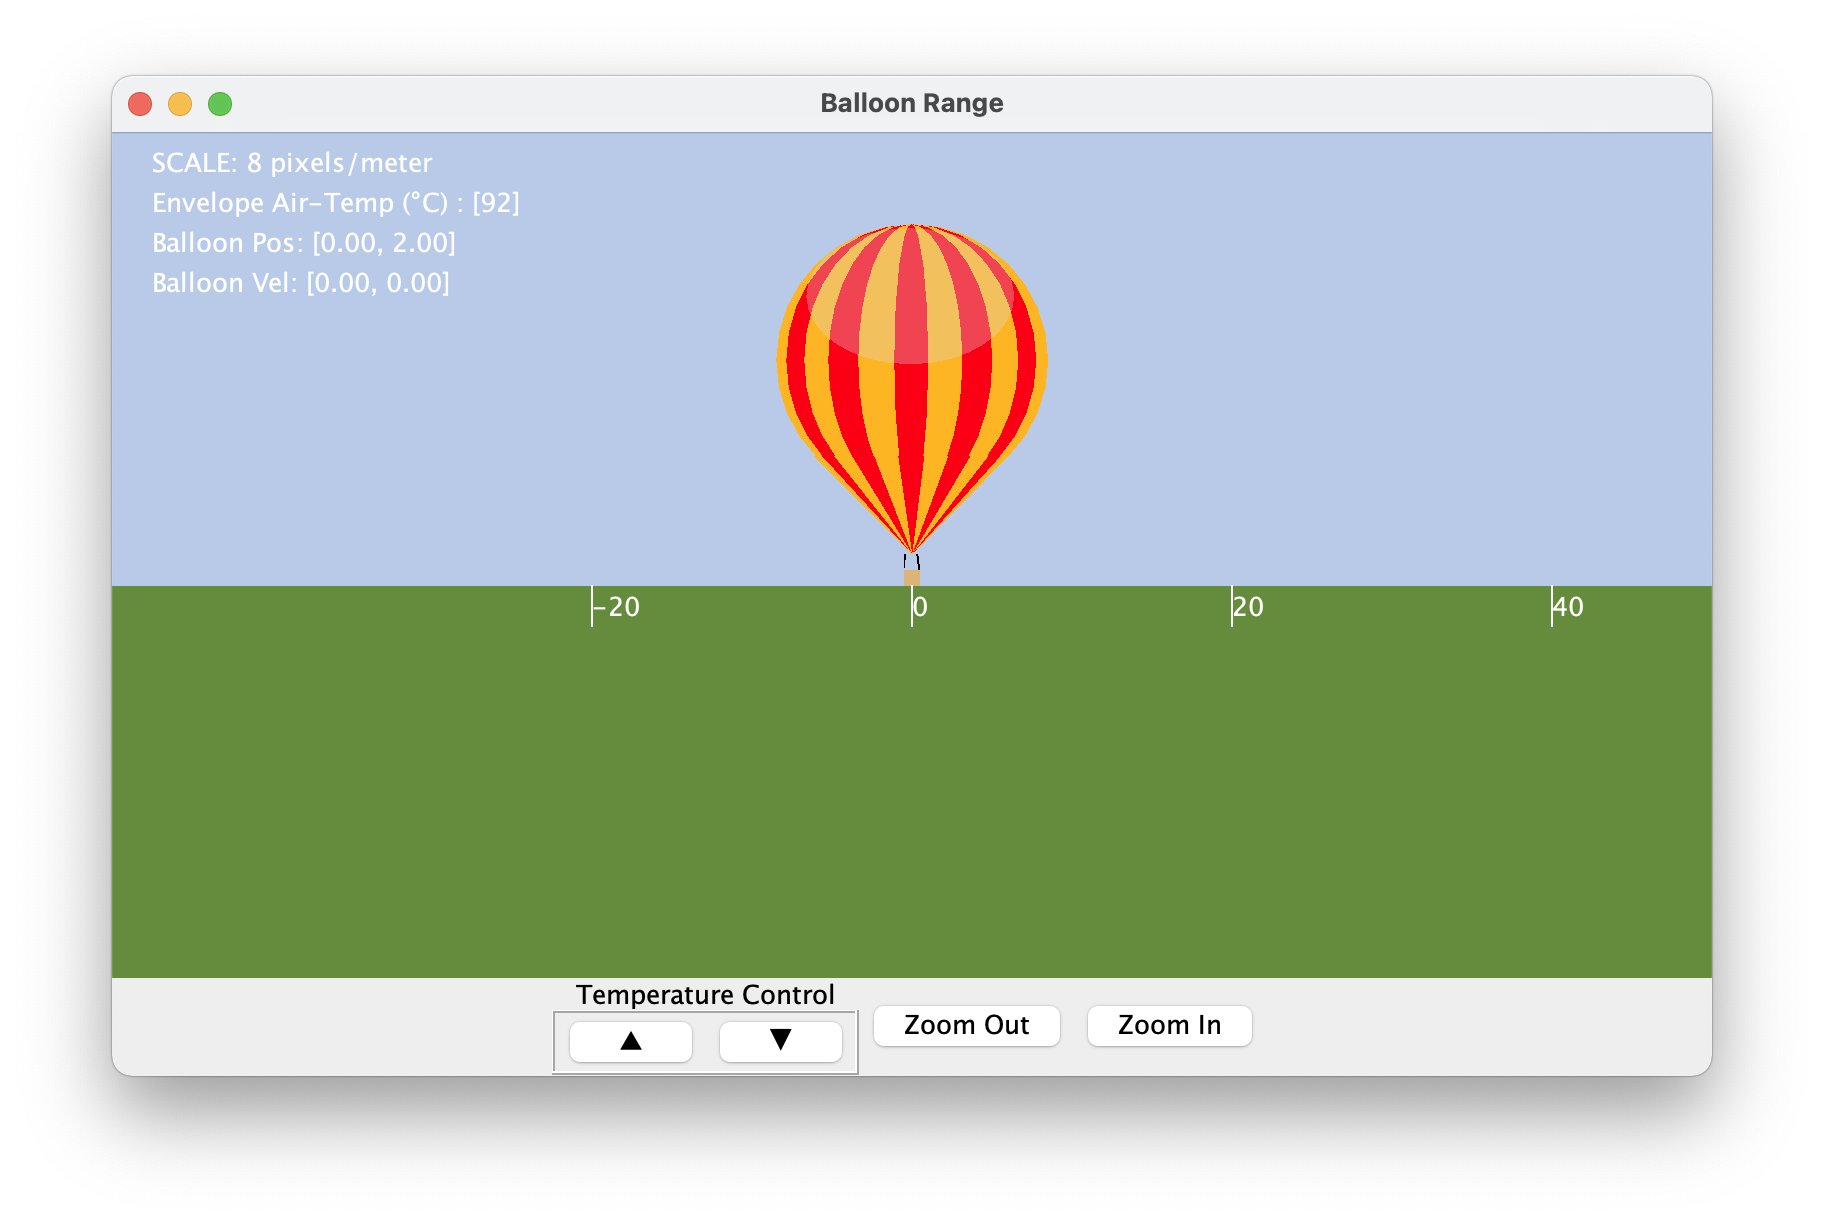
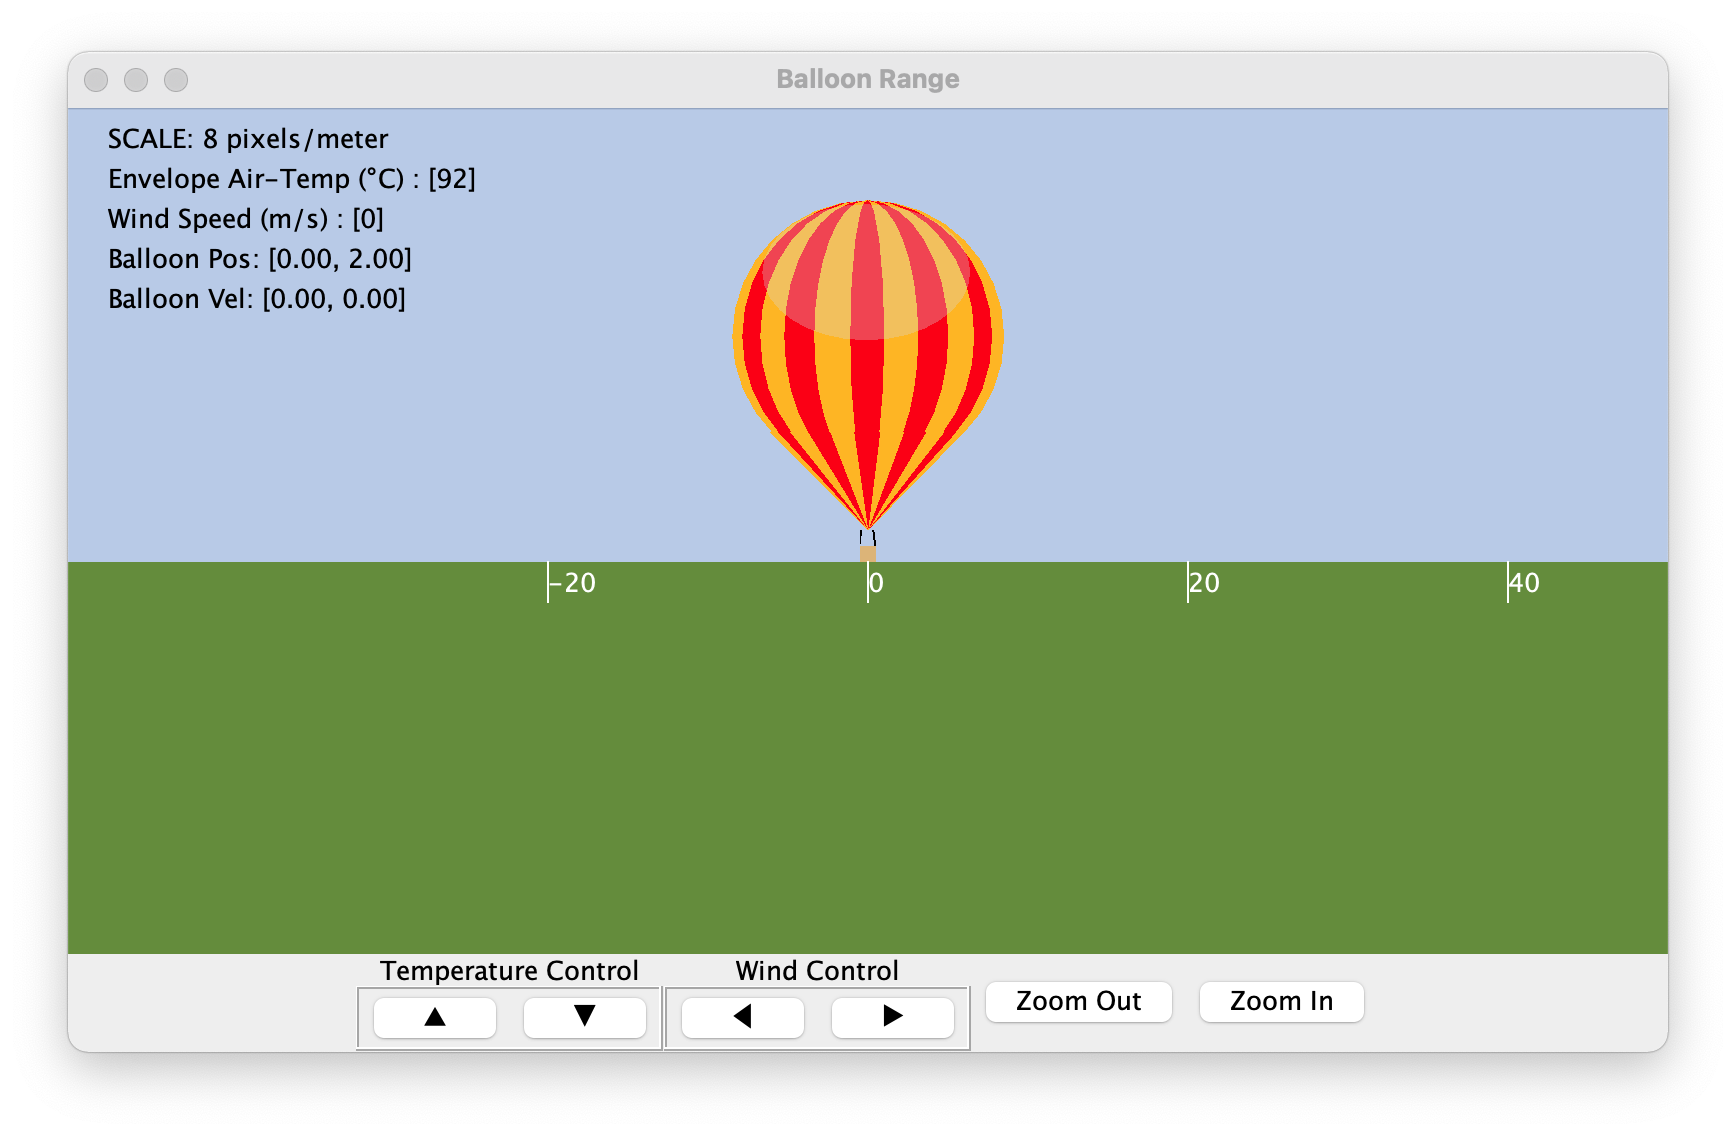
Update SIM_balloon with Wind. #1213

Changed region(s): [[0.0311, 0.0616, 0.9643, 0.9551]]

diff --git a/trick_sims/SIM_balloon/models/graphics/src/BalloonDisplay.java b/trick_sims/SIM_balloon/models/graphics/src/BalloonDisplay.java
@@ -67,6 +67,7 @@ class RangeView extends JPanel {
     private double[] balloonPos;
     private double[] balloonVel;
     private int      envelopeAirTemp; /* degrees C */
+    private int      windSpeed;
     private double   envelope_radius;
     private double   envelope_theta;
 
@@ -78,6 +79,7 @@ class RangeView extends JPanel {
 
     // Controls
     private int deltaTemp ;
+    private int deltaWind ;
 
     /**
      * Class constructor.
@@ -87,6 +89,7 @@ class RangeView extends JPanel {
         setScale(mapScale);
 
         deltaTemp = 0;
+        deltaWind = 0;
 
         skyColor    = new Color(184,202,231);
         groundColor = new Color(100,140, 60);
@@ -105,6 +108,7 @@ class RangeView extends JPanel {
         envelope_theta = Math.toRadians(45.0);
 
         envelopeAirTemp = 0;
+        windSpeed = 0;
 
         cone = new ScenePoly();
         cone.color = envelope_color_1;
@@ -152,6 +156,11 @@ class RangeView extends JPanel {
     public void resetDeltaTemp() { deltaTemp =    0; }
     public int  getDeltaTemp()   { return deltaTemp; }
 
+    public void incWind() { deltaWind =    1; }
+    public void decWind() { deltaWind =   -1; }
+    public void resetDeltaWind() { deltaWind =    0; }
+    public int  getDeltaWind()   { return deltaWind; }
+
     public void setballoonPos(double x, double y) {
         balloonPos[0] = x;
         balloonPos[1] = y;
@@ -162,6 +171,9 @@ class RangeView extends JPanel {
     }
     public void setAirTemp(int temperature) {
         envelopeAirTemp = temperature;
+    }
+    public void setWindSpeed(int speed) {
+        windSpeed = speed;
     }
 
     public void setScale (int mapScale) {
@@ -300,10 +312,12 @@ class RangeView extends JPanel {
         // ===============================================================================
         // Draw Information
         // ===============================================================================
+        g2d.setPaint(Color.BLACK);
         g2d.drawString ( String.format("SCALE: %d pixels/meter",scale), 20,20);
         g2d.drawString ( String.format("Envelope Air-Temp (°C) : [%d]", envelopeAirTemp), 20,40);
-        g2d.drawString ( String.format("Balloon Pos: [%.2f, %.2f]", balloonPos[0], balloonPos[1]), 20,60);
-        g2d.drawString ( String.format("Balloon Vel: [%.2f, %.2f]", balloonVel[0], balloonVel[1]), 20,80);
+        g2d.drawString ( String.format("Wind Speed (m/s) : [%d]", windSpeed), 20,60);
+        g2d.drawString ( String.format("Balloon Pos: [%.2f, %.2f]", balloonPos[0], balloonPos[1]), 20,80);
+        g2d.drawString ( String.format("Balloon Vel: [%.2f, %.2f]", balloonVel[0], balloonVel[1]), 20,100);
 
     }
 
@@ -360,12 +374,55 @@ class TemperatureCtrlPanel extends JPanel implements ActionListener {
     }
 }
 
+class WindCtrlPanel extends JPanel implements ActionListener {
+    private RangeView rangeView;
+    private JButton increaseWindButton, decreaseWindButton;
+
+    public WindCtrlPanel(RangeView view) {
+        rangeView = view;
+        setLayout(new BoxLayout(this, BoxLayout.X_AXIS));
+        setBorder( BorderFactory.createEtchedBorder(EtchedBorder.RAISED));
+
+        increaseWindButton = new JButton("\u25b6");
+        increaseWindButton.addActionListener(this);
+        increaseWindButton.setActionCommand("increaseWind");
+        increaseWindButton.setToolTipText("Increase Wind");
+
+        decreaseWindButton = new JButton("\u25c0");
+        decreaseWindButton.addActionListener(this);
+        decreaseWindButton.setActionCommand("decreaseWind");
+        decreaseWindButton.setToolTipText("Decrease Wind");
+
+        add(decreaseWindButton);
+        add(increaseWindButton);
+
+
+    }
+
+    public void actionPerformed(ActionEvent e) {
+        String s = e.getActionCommand();
+        switch (s) {
+            case "increaseWind":
+                rangeView.incWind();
+                break;
+            case "decreaseWind":
+                rangeView.decWind();
+                break;
+            default:
+                System.out.println("Unknown Action Command:" + s);
+                break;
+        }
+    }
+}
+
+
 class ControlPanel extends JPanel implements ActionListener {
 
     private RangeView rangeView;
     private JButton zoomOutButton, zoomInButton;
     private JButton shutDownButton;
     private TemperatureCtrlPanel temperatureCtrlPanel;
+    private WindCtrlPanel windCtrlPanel;
 
     public ControlPanel(RangeView view) {
 
@@ -380,6 +437,15 @@ class ControlPanel extends JPanel implements ActionListener {
         temperatureCtrlPanel = new TemperatureCtrlPanel(rangeView);
         labeledTemperatureCtrlPanel.add( temperatureCtrlPanel );
         add(labeledTemperatureCtrlPanel);
+
+        JPanel labeledWindCtrlPanel = new JPanel();
+        labeledWindCtrlPanel.setLayout(new BoxLayout(labeledWindCtrlPanel, BoxLayout.Y_AXIS));
+        JLabel windControlLabel = new JLabel("Wind Control");
+        windControlLabel.setAlignmentX(Component.CENTER_ALIGNMENT);
+        labeledWindCtrlPanel.add(windControlLabel);
+        windCtrlPanel = new WindCtrlPanel(rangeView);
+        labeledWindCtrlPanel.add( windCtrlPanel );
+        add(labeledWindCtrlPanel);
 
         zoomOutButton = new JButton("Zoom Out");
         zoomOutButton.addActionListener(this);
@@ -499,9 +565,11 @@ public class BalloonDisplay extends JFrame {
         double  velx = 0.0;
         double  vely = 0.0;
         int     airtemp = 0;
+        int     windspeed = 0;
 
         // Outbound command variables
         int temperature_change_command;
+        int wind_change_command;
 
         int simMode = 0;
         boolean standalone = false;
@@ -552,6 +620,7 @@ public class BalloonDisplay extends JFrame {
                             "trick.var_add(\"dyn.balloon.vel[0]\")\n" +
                             "trick.var_add(\"dyn.balloon.vel[1]\")\n" +
                             "trick.var_add(\"dyn.balloon.envelope_air_temperature\")\n" +
+                            "trick.var_add(\"dyn.balloon.wind_speed\")\n" +
                             "trick.var_add(\"trick_sys.sched.mode\")\n" +
         //  2) We want the responses in ASCII:
                             "trick.var_ascii() \n" +
@@ -574,7 +643,8 @@ public class BalloonDisplay extends JFrame {
                 velx    = Double.parseDouble( field[3]);
                 vely    = Double.parseDouble( field[4]);
                 airtemp = Integer.parseInt( field[5]);
-                simMode = Integer.parseInt( field[6]);
+                windspeed = Integer.parseInt( field[6]);
+                simMode = Integer.parseInt( field[7]);
             } catch (IOException | NullPointerException e ) {
                 go = false;
             }
@@ -583,10 +653,19 @@ public class BalloonDisplay extends JFrame {
             rangeView.setballoonPos(posx, posy);
             rangeView.setBalloonVel(velx, vely);
             rangeView.setAirTemp(airtemp);
+            rangeView.setWindSpeed(windspeed);
 
             temperature_change_command = rangeView.getDeltaTemp();
-            balloonDisplay.out.writeBytes( String.format("dyn.balloon.temperature_change_command = %d ;\n", temperature_change_command ));
-            rangeView.resetDeltaTemp();
+            if (temperature_change_command != 0) {
+                balloonDisplay.out.writeBytes( String.format("dyn.balloon.temperature_change_command = %d ;\n", temperature_change_command ));
+                rangeView.resetDeltaTemp();
+            }
+
+            wind_change_command = rangeView.getDeltaWind();
+            if (wind_change_command != 0) {
+                balloonDisplay.out.writeBytes( String.format("dyn.balloon.wind_change_command = %d ;\n", wind_change_command ));
+                rangeView.resetDeltaWind();
+            }
 
             balloonDisplay.out.flush();
 

diff --git a/trick_sims/SIM_balloon/models/balloon/src/Balloon.cpp b/trick_sims/SIM_balloon/models/balloon/src/Balloon.cpp
@@ -27,7 +27,8 @@ int Balloon::default_data() {
     envelope_radius          = 8.5;
     envelope_theta           = 45 * (M_PI/180.0);
 
-    Cd = 0.5;
+    Cd[0] = 0.5;
+    Cd[1] = 0.5;
 
     return (0);
 }
@@ -42,9 +43,13 @@ int Balloon::state_deriv() {
     double total_mass = calc_total_mass();
     double F_gravity  = total_mass * (-US_STD_gravity( pos[1])); /* Equation #2 */
     double F_buoyancy = calc_buoyancy_force();
-    double F_drag     = calc_drag_force();
+    double F_drag[2];
+    calc_drag_force(F_drag);
     acc[0] = 0.0;
-    acc[1] = (F_gravity + F_buoyancy + F_drag) / total_mass; /* Equation #1 */
+
+    acc[0] = (F_drag[0]) / total_mass;                          /* Equation #1 */
+    acc[1] = (F_gravity + F_buoyancy + F_drag[1]) / total_mass; /* Equation #1 */
+
     return(0);
 }
 
@@ -105,21 +110,45 @@ double Balloon::calc_fixed_mass() {
     return (envelope_mass + basket_mass + burner_system_mass + payload_mass);
 }
 
-double Balloon::calc_drag_force() {
+void Balloon::calc_drag_force(double *F_drag) {
+    double altitude = pos[1];
 
-    double A = M_PI * envelope_radius * envelope_radius; /* Equation 11 */
-    return (- Cd * 0.5 * US_STD_density(pos[1]) * abs(vel[1]) * vel[1] * A); /* Equation 10 */
+    /* Equation 11 */
+    double v_tas[2];
+    v_tas[0] = vel[0] - wind_speed;
+    v_tas[1] = vel[1];
+
+    double A[2];
+    A[0] = (0.75 * M_PI + 1.0) * envelope_radius * envelope_radius; /* Equation 13 */
+    A[1] = M_PI * envelope_radius * envelope_radius; /* Equation 12 */
+
+    /* Equation 10 */
+    F_drag[0] = -( 0.5 * US_STD_density(altitude) * abs(v_tas[0]) * v_tas[0] * Cd[0] * A[0] );
+    F_drag[1] = -( 0.5 * US_STD_density(altitude) * abs(v_tas[1]) * v_tas[1] * Cd[1] * A[1] );
+
+    return;
 }
 
 int Balloon::control() {
     if ( temperature_change_command != 0) {
         envelope_air_temperature += temperature_change_command;
+        temperature_change_command = 0;
     }
     if (envelope_air_temperature > 120.0) {
         envelope_air_temperature = 120.0;
     }
     if (envelope_air_temperature < 80.0) {
         envelope_air_temperature = 80.0;
+    }
+    if ( wind_change_command != 0) {
+        wind_speed += wind_change_command;
+        wind_change_command = 0;
+    }
+    if (wind_speed > 10.0) {
+        wind_speed = 10.0;
+    }
+    if (wind_speed < -10.0) {
+        wind_speed = -10.0;
     }
     return(0);
 }

diff --git a/trick_sims/SIM_balloon/RUN_test/input.py b/trick_sims/SIM_balloon/RUN_test/input.py
@@ -5,6 +5,7 @@ dyn.balloon.pos[0] = 0
 dyn.balloon.vel[0] = 0.0
 dyn.balloon.vel[1] = 0.0
 dyn.balloon.envelope_air_temperature = 92.0
+dyn.balloon.wind_speed = 0.0
 
 # ==========================================
 # Start the Satellite Graphics Client

diff --git a/trick_sims/SIM_balloon/README.md b/trick_sims/SIM_balloon/README.md
@@ -49,6 +49,7 @@ Returns atmospheric temperature (℃) at the given altitude (m).
 
 Returns atmospheric pressure (pascals) at the given altitude (m).
 
+
 ## Dynamics Model
 
 The forces acting on our balloon will be those of gravity, buoyancy and aerodynamic drag.
@@ -151,20 +152,34 @@ Here, we can do that same calculation for air mass as before, using
 
 ---
 
-### Force of Drag
+### Force of Drag Due to Motion and Wind
 
-As the balloon moves upward, or downward, it will be subjected to an atmospheric drag force. Drag is a function of the balloon’s shape [ represented by the coefficient of drag (C<sub>d</sub>) ], the density of the air (𝝆), and the cross-sectional area (A) perpendicular to the velocity (v). The drag force points in the opposite direction as the velocity.
+As a balloon moves through the air, it encounters an atmospheric drag force. This force is a function of:
+
+* the density of the surrounding air (𝝆),
+* the balloons velocity with respect to the surrounding air (v<sub>TAS</sub>),
+* the balloons coefficient of drag (C<sub>d</sub>) perpendicular to v<sub>TAS</sub>, and
+* the cross-sectional area (A) perpendicular to v<sub>TAS</sub>,
+
 
 <a id=Equation-10></a>
 ![Equation 10](Images/Equation10.png)
 
-For our balloon, we’ll assume C<sub>d</sub> = 0.5, the coefficient of drag for a sphere.
 Since the balloon will be moving through our “standard atmosphere” 𝝆 = ```US_STD_density(altitude)```.
 
-We’ll calculate the cross-sectional area (A) from the radius of the spherical portion of our balloon.
+The velocity of the balloon through the surrounding air (v<sub>TAS</sub>) is equal to its velocity with respect to the ground (v<sub>balloon</sub>) minus the wind velocity (v<sub>wind</sub>). **TAS** stands for True air speed.
 
 <a id=Equation-11></a>
-![Equation 11](Images/Equation11.png)
+![Equation 10](Images/Equation11.png)
+
+The default value of C<sub>d</sub> = 0.5 (the coefficient of drag for a sphere) for both the horizontal and vertical axes of motion.
+
+We can calculate the cross-sectional area (A) from the radius of the spherical portion of our balloon.
+
+For vertical motion:
+![Equation 12](Images/Equation12.png)
+For horizontal motion:
+![Equation 13](Images/Equation13.png)
 
 ## Graphics
 
